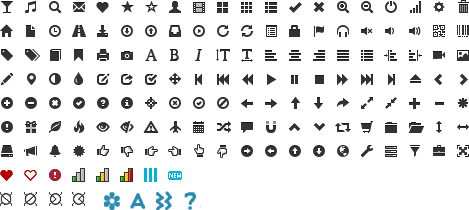
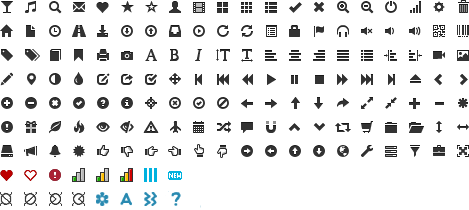
#46 + pierdoły

Changed region(s): [[0.1791, 0.9143, 0.4179, 1.0]]

diff --git a/templates/bracelet/bracelet.html b/templates/bracelet/bracelet.html
@@ -104,21 +104,21 @@
 			<hr />
 			{% if user == bracelet.user %}
 				<div>
-					{% trans "It\'s your bracelet" %} <a href='/profile/'>{% trans 'See more' %}</a><br />
+					{% trans "It's your bracelet" %}   <a href='/profile/' class="label label-info">{% trans 'See more' %}</a><br />
 					{% trans 'Status' %}: 
 					{% if bracelet.public %}
 						{% trans 'public' %}
 					{% else %}
 						{% trans 'private' %}
 					{% endif %}
-					<a href='/bracelet/change_status/{{bracelet.id}}'>{% trans 'Change to' %}
+					  <a href='/bracelet/change_status/{{bracelet.id}}' class="label label-info">{% trans 'Change to' %}
 						{% if bracelet.public %}
 							{% trans 'private' %}
 						{% else %}
 							{% trans 'public' %}
 						{% endif %}
 					</a><br />
-					<i class='icon-trash'>&nbsp;</i> <a href='#' style='color:red;' id='delete-link'>{% trans 'Delete bracelet' %}</a>	<br />	<br />
+					<i class='icon-trash'>&nbsp;</i>  <a href='#' style='color:red;' id='delete-link'>{% trans 'Delete bracelet' %}</a>	<br />	<br />
 					<div class="modal hide" id="delete-confirm">
 					  	<div class="modal-header">
 							<button type="button" class="close" data-dismiss="modal" class='color-chooser-cancel'>×</button>
@@ -159,7 +159,7 @@
     	    			{% endif %}
     	    		{% endif %}</p>
 				<p><i class="icon-strings"  title="{% trans 'Number of strings' %}">&nbsp;</i> {{ bracelet.strings.all|length }}</p>
-				<p><i class="icon-star2" title="{% trans 'Rate' %}">&nbsp;</i> {{ bracelet.rate }}</p>
+				<p><i class="icon-heart-full" title="{% trans 'Rate' %}">&nbsp;</i> {{ bracelet.rate }}</p>
 				<p><i class="icon-difficulty{{ bracelet.difficulty}}" title="{% trans 'Difficulty' %}"> &nbsp;</i> {{ bracelet.difficulty }}</p>
 			</div>
 			<div class='bracelet-link'>

diff --git a/static/css/bootstrap.css b/static/css/bootstrap.css
@@ -2351,18 +2351,6 @@ input[type="submit"].btn.btn-mini {
 .icon-new {
 	background-position: -168px -168px;
 }
-.icon-category1 {
-	background-position: -104px -192px;
-}
-.icon-category2 {
-	background-position: -129px -192px;
-}
-.icon-category4 {
-	background-position: -156px -192px;
-}
-.icon-category3{
-	background-position: -184px -192px;
-}
 .icon-knot1 {
 	background-position: 0 -192px;
 }
@@ -2378,6 +2366,19 @@ input[type="submit"].btn.btn-mini {
 .icon-knot5 {
 	background-position: -26px -192px;
 }
+.icon-category1 {
+	background-position: -96px -192px;
+}
+.icon-category2 {
+	background-position: -120px -192px;
+}
+.icon-category4 {
+	background-position: -144px -192px;
+}
+.icon-category3{
+	background-position: -168px -192px;
+}
+
 .btn-group {
   position: relative;
   *zoom: 1;

diff --git a/templates/comments/list.html b/templates/comments/list.html
@@ -1,10 +1,15 @@
 {% load i18n %}
 <div class="comment_start"></div>
-{% for comment in comment_list reversed %}
-   <div class="comment">
-   	  <h4><span class="comment-user">{{ comment.user }}</span> <span class="comment-time">{{ comment.submit_date|timesince }} {% trans "ago" %}</span></h4>
-      {{ comment.comment }}
-      <hr />
-   </div>
-   
-{% endfor %}
+
+{% if comment_list %}
+	{% for comment in comment_list reversed %}
+	   <div class="comment">
+	   	  <h4><span class="comment-user">{{ comment.user }}</span> <span class="comment-time">{{ comment.submit_date|timesince }} {% trans "ago" %}</span></h4>
+	      {{ comment.comment }}
+	      <hr />
+	   </div>
+	   
+	{% endfor %}
+{% else %}
+	{% trans "There is no comments." %}
+{% endif %}

diff --git a/templates/404.html b/templates/404.html
@@ -5,5 +5,5 @@
 <h2>{% trans "It's not here" %} :(</h2>
 <hr />
 {% trans 'Page you are looking for is not here. If you got here following link from this page - please' %}, <a href="/about/">{% trans 'let me knot about it'%}</a><br />
-{% trans 'You can go back to' %}<a href="/">{% trans 'main page' %}</a>
+{% trans 'You can go back to' %} <a href="/">{% trans 'main page' %}</a>
 {% endblock %}

diff --git a/templates/bracelet/tabs/photos.html b/templates/bracelet/tabs/photos.html
@@ -35,5 +35,9 @@ $(document).ready(function() {
 	       </div>
 	{% endfor %}
 {% else %}
-	{% trans "No photos, add yours to be first!" %}
+	{% if user.is_authenticated %}
+		{% trans "No photos, add yours to be first!" %}
+	{% else %}
+		{% trans "There is no photo" %}
+	{% endif %}
 {% endif %}

diff --git a/static/css/bracelet.css b/static/css/bracelet.css
@@ -252,6 +252,13 @@
 	margin: 10px 0 10px 10px;
 	padding: 15px 0 5px 50px;
 }
+#bracelet-extras hr {
+	margin: 5px 0 18px 0;
+	border: 0;
+	border-top: 1px dashed #28afc8;
+	border-bottom: 1px dashed #aadfdf;
+	width: 100%;
+}
 .bracelet-data p i {
 	vertical-align: top;
 }

diff --git a/bracelet/views.py b/bracelet/views.py
@@ -1,6 +1,5 @@
 from django.shortcuts import render_to_response
-from django.http import HttpResponseRedirect, HttpResponse
-from django.contrib.auth.forms import AuthenticationForm
+from django.http import HttpResponse
 from django.template.context import RequestContext
 from bracelet.models import BraceletColor, Bracelet, BraceletCategory, \
 	BraceletString, BraceletKnot, BraceletKnotType, Photo, Rate
@@ -12,11 +11,9 @@ from bracelet.helper import handle_uploaded_file, scale
 from django.utils.translation import ugettext as _
 from django.utils.translation import gettext
 from django.conf import settings
-from common.models import UserProfile
 import time
 from django.core.exceptions import ObjectDoesNotExist
 from common.views import userprofile, index, get_context
-from django.contrib.comments.models import Comment
 import unicodedata
 
 
@@ -28,7 +25,6 @@ def add(request):
 	return render_to_response('bracelet/add.html', context, RequestContext(request))
 
 def bracelet(request, bracelet_url, context = {}):
-	print '11111', context
 	try:
 		bracelet = Bracelet.objects.get(url = bracelet_url)
 	except ObjectDoesNotExist:

diff --git a/common/bracelet_tools.py b/common/bracelet_tools.py
@@ -41,7 +41,7 @@ def find_bracelets(orderby = "0", category = "0", difficulty = "0", color = "0",
 		q_orderby = '-rate'
 	elif orderby == '3':
 		q_orderby = 'rate'
-	patterns = Bracelet.objects.all().order_by(q_orderby)
+	patterns = Bracelet.objects.all().order_by(q_orderby).filter(public = 1, accepted = 1)
 	if category != "0":
 		patterns = patterns.filter(category = BraceletCategory.objects.all().filter(name = category))
 	if difficulty != "0":
@@ -53,7 +53,7 @@ def find_bracelets(orderby = "0", category = "0", difficulty = "0", color = "0",
 	if photo:
 		patterns = patterns.filter(photo__isnull = False)
 
-	if color:
+	if color != "0":
 		color = BraceletColor.objects.get(hexcolor = int('0x' + color[1:], 16))
 		strings = [bs.bracelet.id for bs in BraceletString.objects.filter(color = color)] # TODO find more effective way to do this
 		patterns = patterns.filter(id__in = strings)

diff --git a/common/views.py b/common/views.py
@@ -205,10 +205,11 @@ def setlang(request, lang):
 def search(request):
 	# TODO bracelets filter
 	url = request.get_full_path()
-	if(url.find("category") > -1):
-		url = "&" + url[url.find("category"):]
+	print url
+	if url.find("page") > -1:
+			url = url[url.find("&") :]
 	else:
-		url = ""
+		url = "&" + url[url.find("?") + 1:]
 
 	context = get_context(request)
 	context.update({'category' : request.GET['category'],
